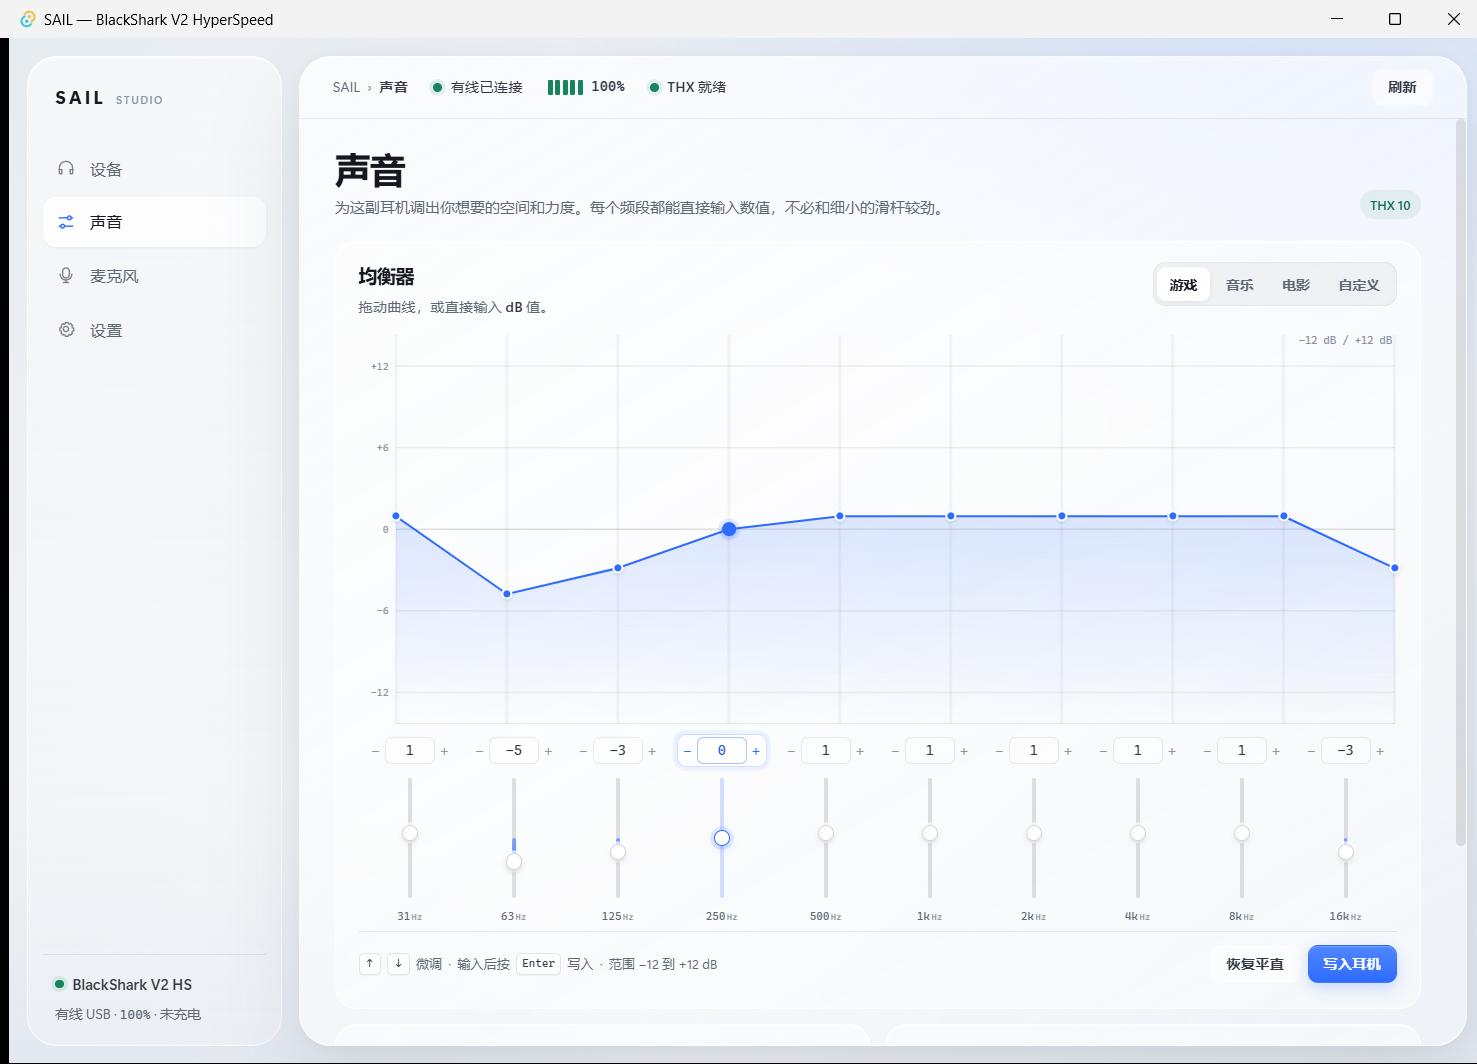
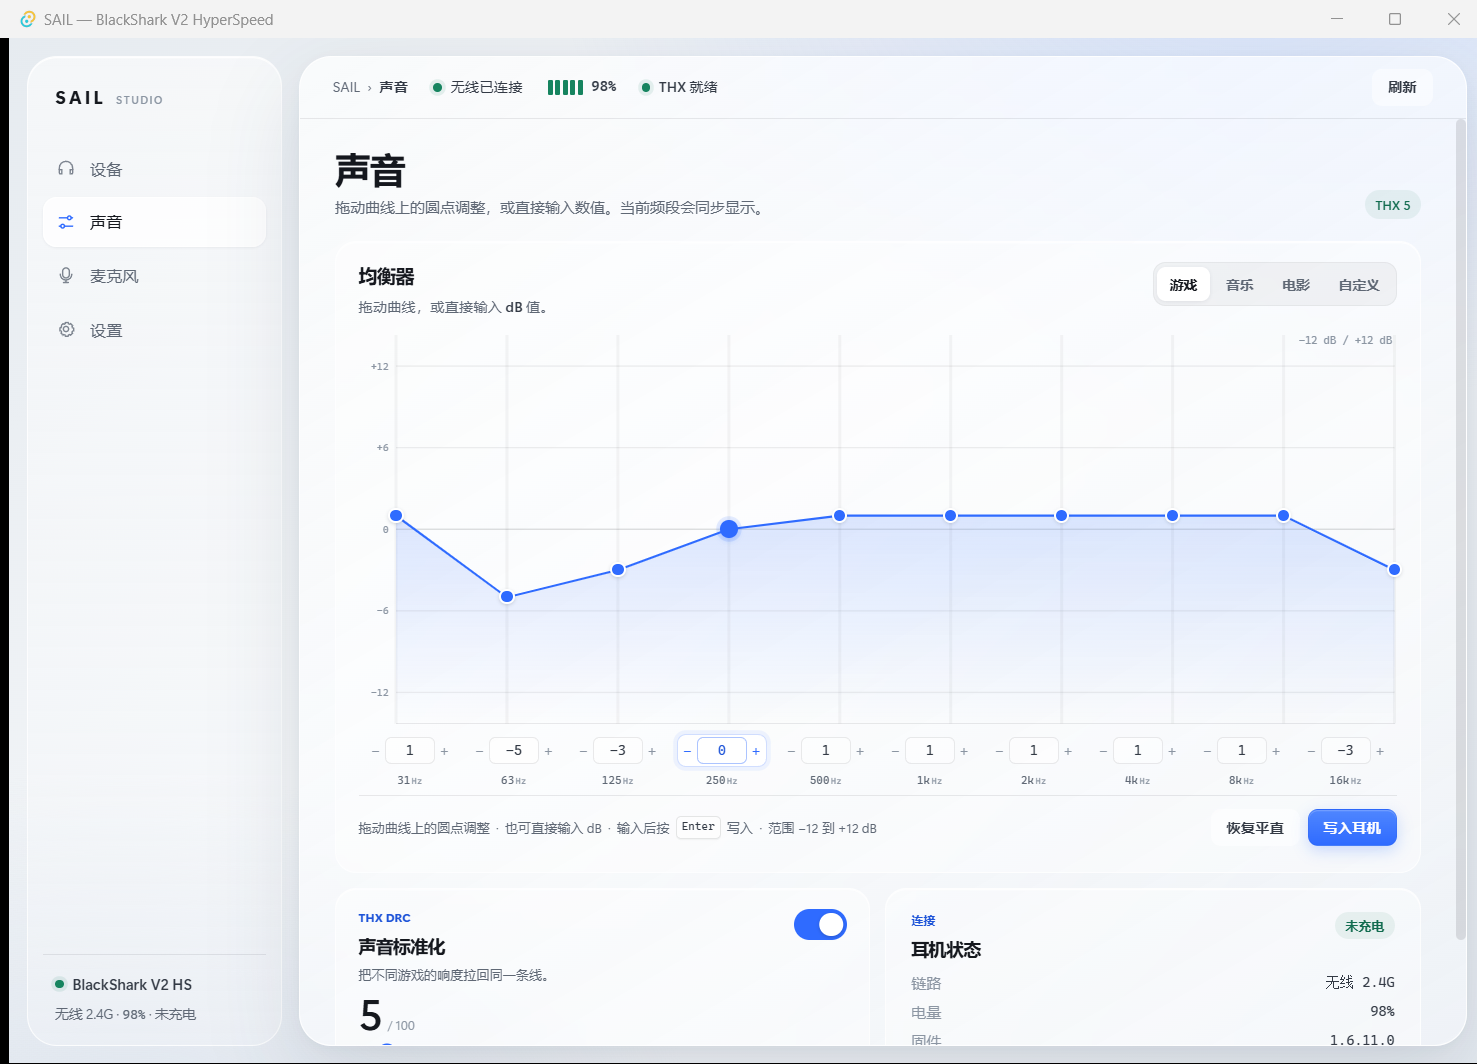
Make EQ curve directly draggable and remove separate faders

diff --git a/ui/src/lib/components/EqEditor.svelte b/ui/src/lib/components/EqEditor.svelte
@@ -11,10 +11,12 @@
   let { gains, frequencies, busy, oninput, onapply, onreset }: Props = $props();
 
   let active = $state(3);
+  let graphEl: HTMLDivElement;
+  let dragIndex = $state<number | null>(null);
 
   let points = $derived(
     gains
-      .map((gain, index) => `${(index / Math.max(1, gains.length - 1)) * 100},${50 - (gain / 12) * 40}`)
+      .map((gain, index) => `${(index / Math.max(1, gains.length - 1)) * 100},${50 - gain * 3.5}`)
       .join(" ")
   );
 
@@ -35,6 +37,44 @@
     oninput(index, clamp((gains[index] ?? 0) + delta));
   }
 
+  function gainAt(clientY: number): number {
+    const rect = graphEl.getBoundingClientRect();
+    const ratio = Math.max(0, Math.min(1, (clientY - rect.top) / rect.height));
+    return clamp((50 - ratio * 100) / 3.5);
+  }
+
+  function startDrag(event: PointerEvent, index: number) {
+    event.preventDefault();
+    active = index;
+    dragIndex = index;
+    const dot = event.currentTarget as HTMLButtonElement;
+    dot.focus();
+    dot.setPointerCapture(event.pointerId);
+    oninput(index, gainAt(event.clientY));
+  }
+
+  function moveDrag(event: PointerEvent, index: number) {
+    if (dragIndex === index) {
+      oninput(index, gainAt(event.clientY));
+    }
+  }
+
+  function endDrag(event: PointerEvent, index: number) {
+    if (dragIndex !== index) return;
+    dragIndex = null;
+    const dot = event.currentTarget as HTMLButtonElement;
+    if (dot.hasPointerCapture(event.pointerId)) {
+      dot.releasePointerCapture(event.pointerId);
+    }
+  }
+
+  function dotKeydown(event: KeyboardEvent, index: number) {
+    if (event.key === "ArrowUp" || event.key === "ArrowDown") {
+      event.preventDefault();
+      step(index, event.key === "ArrowUp" ? 1 : -1);
+    }
+  }
+
   function onKeydown(event: KeyboardEvent) {
     if (event.key === "Enter") {
       event.preventDefault();
@@ -43,7 +83,7 @@
   }
 </script>
 
-<div class="eq-graph" aria-label="均衡器曲线">
+<div class="eq-graph" aria-label="均衡器曲线" bind:this={graphEl}>
   <span class="eq-unit">−12 dB / +12 dB</span>
   <span class="eq-axis" style="top:8%">+12</span>
   <span class="eq-axis" style="top:29%">+6</span>
@@ -80,13 +120,21 @@
       stroke-linejoin="round"
     />
   </svg>
-  <div class="eq-dots" aria-hidden="true">
+  <div class="eq-dots">
     {#each gains as gain, index}
-      <span
+      <button
+        type="button"
         class="eq-dot"
         class:active={index === active}
-        style={`left:${(index / Math.max(1, gains.length - 1)) * 100}%;top:${50 - (gain / 12) * 40}%`}
-      ></span>
+        style={`left:${(index / Math.max(1, gains.length - 1)) * 100}%;top:${50 - gain * 3.5}%`}
+        aria-label={`${frequencies[index]} Hz 当前 ${gain} dB，拖动或方向键调整`}
+        title={`${frequencies[index]} Hz · ${gain > 0 ? "+" : ""}${gain} dB`}
+        onpointerdown={(event) => startDrag(event, index)}
+        onpointermove={(event) => moveDrag(event, index)}
+        onpointerup={(event) => endDrag(event, index)}
+        onpointercancel={(event) => endDrag(event, index)}
+        onkeydown={(event) => dotKeydown(event, index)}
+      ></button>
     {/each}
   </div>
 </div>
@@ -109,21 +157,6 @@
         />
         <button type="button" aria-label={`${frequency} Hz 加 1 dB`} onclick={() => step(index, 1)}>+</button>
       </div>
-      <div class="vertical-fader">
-        <span
-          class="fader-fill"
-          style={`top:${Math.min(50, 50 - (gains[index] / 12) * 40)}%;height:${Math.abs((gains[index] / 12) * 40)}%`}
-        ></span>
-        <input
-          type="range"
-          min="-12"
-          max="12"
-          step="1"
-          value={gains[index]}
-          aria-label={`${frequency} Hz 滑杆`}
-          oninput={(event) => setGain(index, event.currentTarget.value)}
-        />
-      </div>
       <span class="freq">{frequency}<span>Hz</span></span>
     </div>
   {/each}
@@ -131,7 +164,7 @@
 
 <div class="eq-actions">
   <div class="eq-hint">
-    <kbd>↑</kbd><kbd>↓</kbd> 微调 <span>·</span> 输入后按 <kbd>Enter</kbd> 写入 <span>·</span> 范围 −12 到 +12 dB
+    拖动曲线上的圆点调整 <span>·</span> 也可直接输入 dB <span>·</span> 输入后按 <kbd>Enter</kbd> 写入 <span>·</span> 范围 −12 到 +12 dB
   </div>
   <div class="actions">
     <button class="btn" type="button" onclick={onreset} disabled={busy}>恢复平直</button>

diff --git a/ui/src/app.css b/ui/src/app.css
@@ -270,15 +270,37 @@ h3 { margin: 0; font-size: 14px; font-weight: 650; letter-spacing: -0.01em; }
 .eq-dots { position: absolute; inset: 0; z-index: 2; pointer-events: none; }
 .eq-dot {
   position: absolute;
+  display: grid;
+  place-items: center;
+  width: 24px;
+  height: 24px;
+  padding: 0;
+  border: 0;
+  border-radius: 50%;
+  background: transparent;
+  transform: translate(-50%, -50%);
+  pointer-events: auto;
+  cursor: ns-resize;
+  touch-action: none;
+}
+.eq-dot::after {
+  content: "";
   width: 9px;
   height: 9px;
   border: 2px solid #fff;
   border-radius: 50%;
   background: var(--sail-blue);
   box-shadow: 0 1px 3px rgba(20, 28, 45, 0.16);
-  transform: translate(-50%, -50%);
+  transition: width 120ms ease, height 120ms ease, box-shadow 120ms ease;
 }
-.eq-dot.active {
+.eq-dot:hover::after { width: 11px; height: 11px; }
+.eq-dot:focus-visible { outline: none; }
+.eq-dot:focus-visible::after {
+  width: 11px;
+  height: 11px;
+  box-shadow: 0 0 0 4px rgba(47, 107, 255, 0.2), 0 2px 5px rgba(47, 107, 255, 0.24);
+}
+.eq-dot.active::after {
   width: 11px;
   height: 11px;
   border-color: var(--sail-blue);
@@ -345,72 +367,6 @@ h3 { margin: 0; font-size: 14px; font-weight: 650; letter-spacing: -0.01em; }
 .eq-band.active .gain-control input { border-color: rgba(47, 107, 255, 0.4); background: #fff; color: var(--sail-blue-deep); }
 .eq-band.active .gain-control button { color: var(--sail-blue); }
 
-.vertical-fader {
-  position: relative;
-  width: 23px;
-  height: 104px;
-  display: flex;
-  align-items: center;
-  justify-content: center;
-}
-.vertical-fader::before {
-  content: "";
-  position: absolute;
-  top: 4px;
-  bottom: 4px;
-  width: 3px;
-  border-radius: 3px;
-  background: rgba(21, 24, 30, 0.13);
-}
-.fader-fill {
-  position: absolute;
-  left: 50%;
-  width: 3px;
-  transform: translateX(-50%);
-  border-radius: 3px;
-  background: linear-gradient(180deg, #5d8cff, var(--sail-blue));
-  opacity: 0.7;
-}
-.vertical-fader input {
-  position: relative;
-  z-index: 1;
-  width: 15px;
-  height: 104px;
-  margin: 0;
-  padding: 0;
-  appearance: none;
-  -webkit-appearance: none;
-  background: transparent;
-  writing-mode: vertical-lr;
-  direction: rtl;
-}
-.vertical-fader input::-webkit-slider-runnable-track {
-  width: 3px;
-  height: 104px;
-  border: 0;
-  border-radius: 3px;
-  background: transparent;
-}
-.vertical-fader input::-webkit-slider-thumb {
-  appearance: none;
-  -webkit-appearance: none;
-  width: 13px;
-  height: 13px;
-  margin-left: -5px;
-  border: 1px solid rgba(21, 24, 30, 0.17);
-  border-radius: 50%;
-  background: #fff;
-  box-shadow: 0 2px 4px rgba(20, 28, 45, 0.15), 0 0 0 2px rgba(255, 255, 255, 0.72);
-}
-.vertical-fader input:focus-visible::-webkit-slider-thumb {
-  border-color: var(--sail-blue);
-  box-shadow: 0 0 0 3px rgba(47, 107, 255, 0.18);
-}
-.eq-band.active .vertical-fader::before { background: rgba(47, 107, 255, 0.2); }
-.eq-band.active .vertical-fader input::-webkit-slider-thumb {
-  border-color: var(--sail-blue);
-  box-shadow: 0 2px 7px rgba(47, 107, 255, 0.28), 0 0 0 3px rgba(47, 107, 255, 0.1);
-}
 .freq { color: var(--sail-muted); font-family: "SF Mono", "Cascadia Mono", monospace; font-size: 9px; white-space: nowrap; }
 .freq span { color: var(--sail-faint); font-size: 7.5px; margin-left: 1px; }
 

diff --git a/ui/src/lib/components/SoundPanel.svelte b/ui/src/lib/components/SoundPanel.svelte
@@ -66,7 +66,7 @@
 <div class="page-head">
   <div>
     <h1>声音</h1>
-    <p>为这副耳机调出你想要的空间和力度。每个频段都能直接输入数值，不必和细小的滑杆较劲。</p>
+    <p>拖动曲线上的圆点调整，或直接输入数值。当前频段会同步显示。</p>
   </div>
   <span class="badge" class:ok={available} class:warn={!available}>
     {available ? `THX ${device.thx?.level ?? "—"}` : "THX 未安装"}
